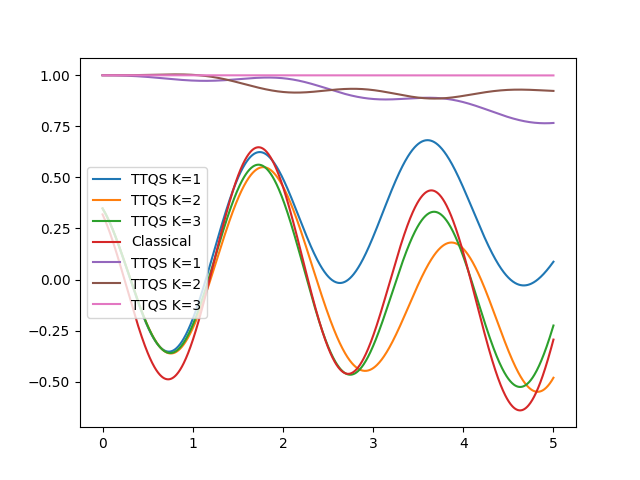
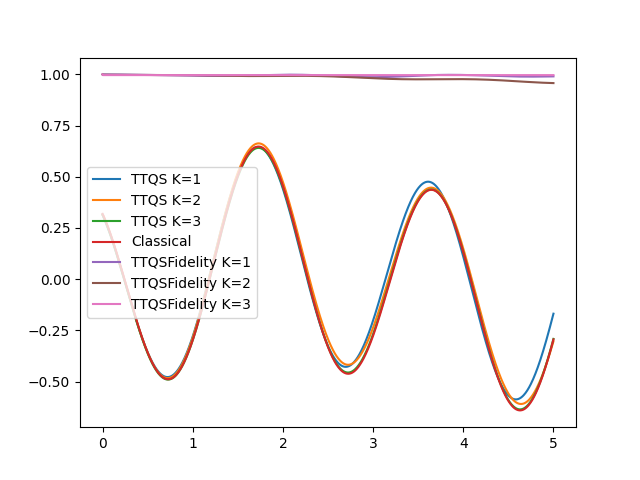
Minor changes by Jon

diff --git a/plotting_package.py b/plotting_package.py
@@ -129,7 +129,7 @@ def QS_plotter_for_fidelity(num_qubits, ansatzlist, times,
                 #     print("actual_state_is", state)
                 #     print("theoretical_state_is", theoretical_state)
                 fidelity_vals.append(fidelity)
-            lab = name + " K=" + str(i)
+            lab = name + "Fidelity K=" + str(i)
             plt.plot(times, fidelity_vals, label = lab)
 
 def get_data_for_fidelity(num_qubits, ansatzlist, times,whatKs, qstype, hamiltonian, initial_state):
@@ -144,7 +144,7 @@ def get_data_for_fidelity(num_qubits, ansatzlist, times,whatKs, qstype, hamilton
         name = 'CQFF'
     for i in range(len(ansatzlist)):
         if i in whatKs:
-            print('Plotting fidelity for K = ' + str(i))
+            #print('Plotting fidelity for K = ' + str(i))
             ansatz = ansatzlist[i]
             result_pauli_string, result_alphas = ansatz.get_alphas()
             result_alphas = list(zip(*result_alphas)) #transpose it so that each entry is a time value 

diff --git a/optimizers.py b/optimizers.py
@@ -246,8 +246,9 @@ def eigh_method_for_TTQS(E_matrix,W_matrix,alphas,inv_cond):
     newalpha=ini_alpha_vec/norm_ini_alpha
     return newalpha
 
-import mosek
-import cvxpy as cp
+#import mosek
+#import cvxpy as cp
+'''
 def mosek_qcqp_for_TTQS(E_matrix,W_matrix,alphas,bounddiff=10**(-6)):
     lengthofalpha = len(alphas)
     #Realification of E
@@ -271,7 +272,7 @@ def mosek_qcqp_for_TTQS(E_matrix,W_matrix,alphas,bounddiff=10**(-6)):
     newalpha = newalphareal + 1j*newalphaimag
     normalpha = np.sqrt(np.abs(np.dot(np.transpose(np.conjugate(newalpha)),np.dot(E_matrix,newalpha))))
     newalpha = newalpha/normalpha
-    return newalpha
+    return newalpha'''
 
 
 

diff --git a/Forjontoteststuff.py b/Forjontoteststuff.py
@@ -16,7 +16,7 @@ uptowhatK = 3
 num_qubits = 2
 endtime = 5
 num_steps = 1001
-optimizer = 'eigh'
+optimizer ='eigh' #'eigh'
 inv_cond = 10**(-3)
 numberoflayers = 2
 randomseedforinitialstate = 183#183 #873
@@ -31,7 +31,7 @@ hub, group, project = "ibm-q-nus", "default", "reservations"
 quantum_com = "ibmq_bogota" 
 
 #Other parameters for running on the quantum computer
-sim = "noisy_qasm"# #"noisy_qasm" #"noiseless_qasm"
+sim = "noiseless_qasm"# #"noisy_qasm" #"noiseless_qasm"
 num_shots = 10000
 
 quantum_computer_choice_results = qhf.choose_quantum_computer(hub, group, project, quantum_com)

diff --git a/post_processing.py b/post_processing.py
@@ -368,6 +368,11 @@ class TTQS(quantumSimulators):
                 newalpha = opt_package.eigh_method_for_TTQS(self.E,W_matrix,thisalpha,self.invcond)
                 for i in range(len(newalpha)):
                     alphas[i].append(newalpha[i])
+            elif self.optimizer == 'mosek_qcqp':
+                newalpha = opt_package.mosek_qcqp_for_TTQS(self.E,W_matrix,thisalpha)
+                for i in range(len(newalpha)):
+                    alphas[i].append(newalpha[i])
+
         self.has_it_been_evaluated = True
         self.finishedalphas = alphas
 
